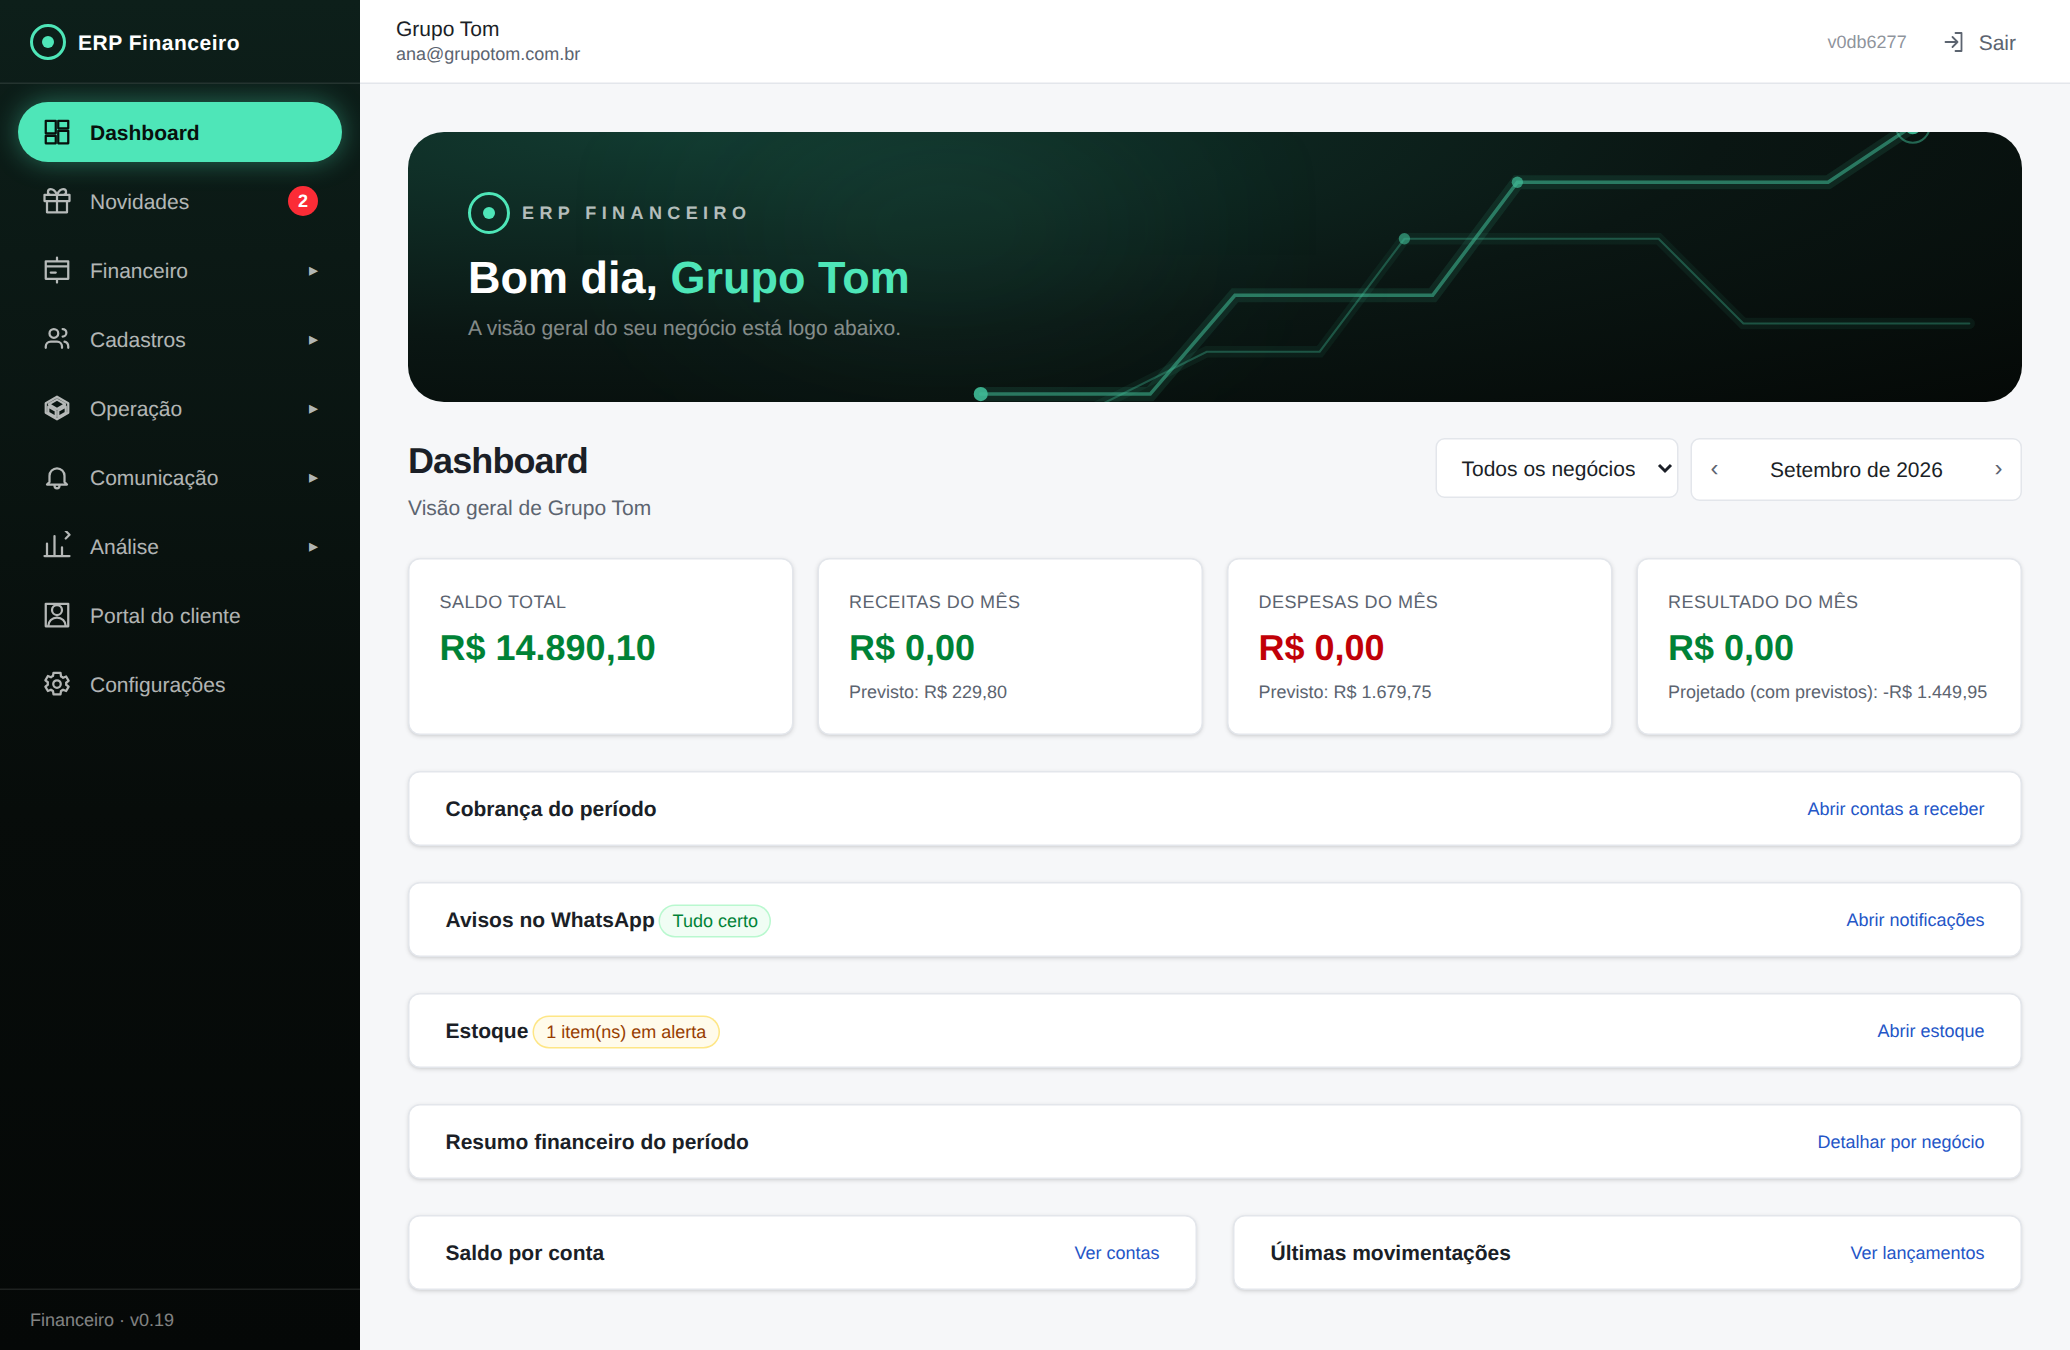
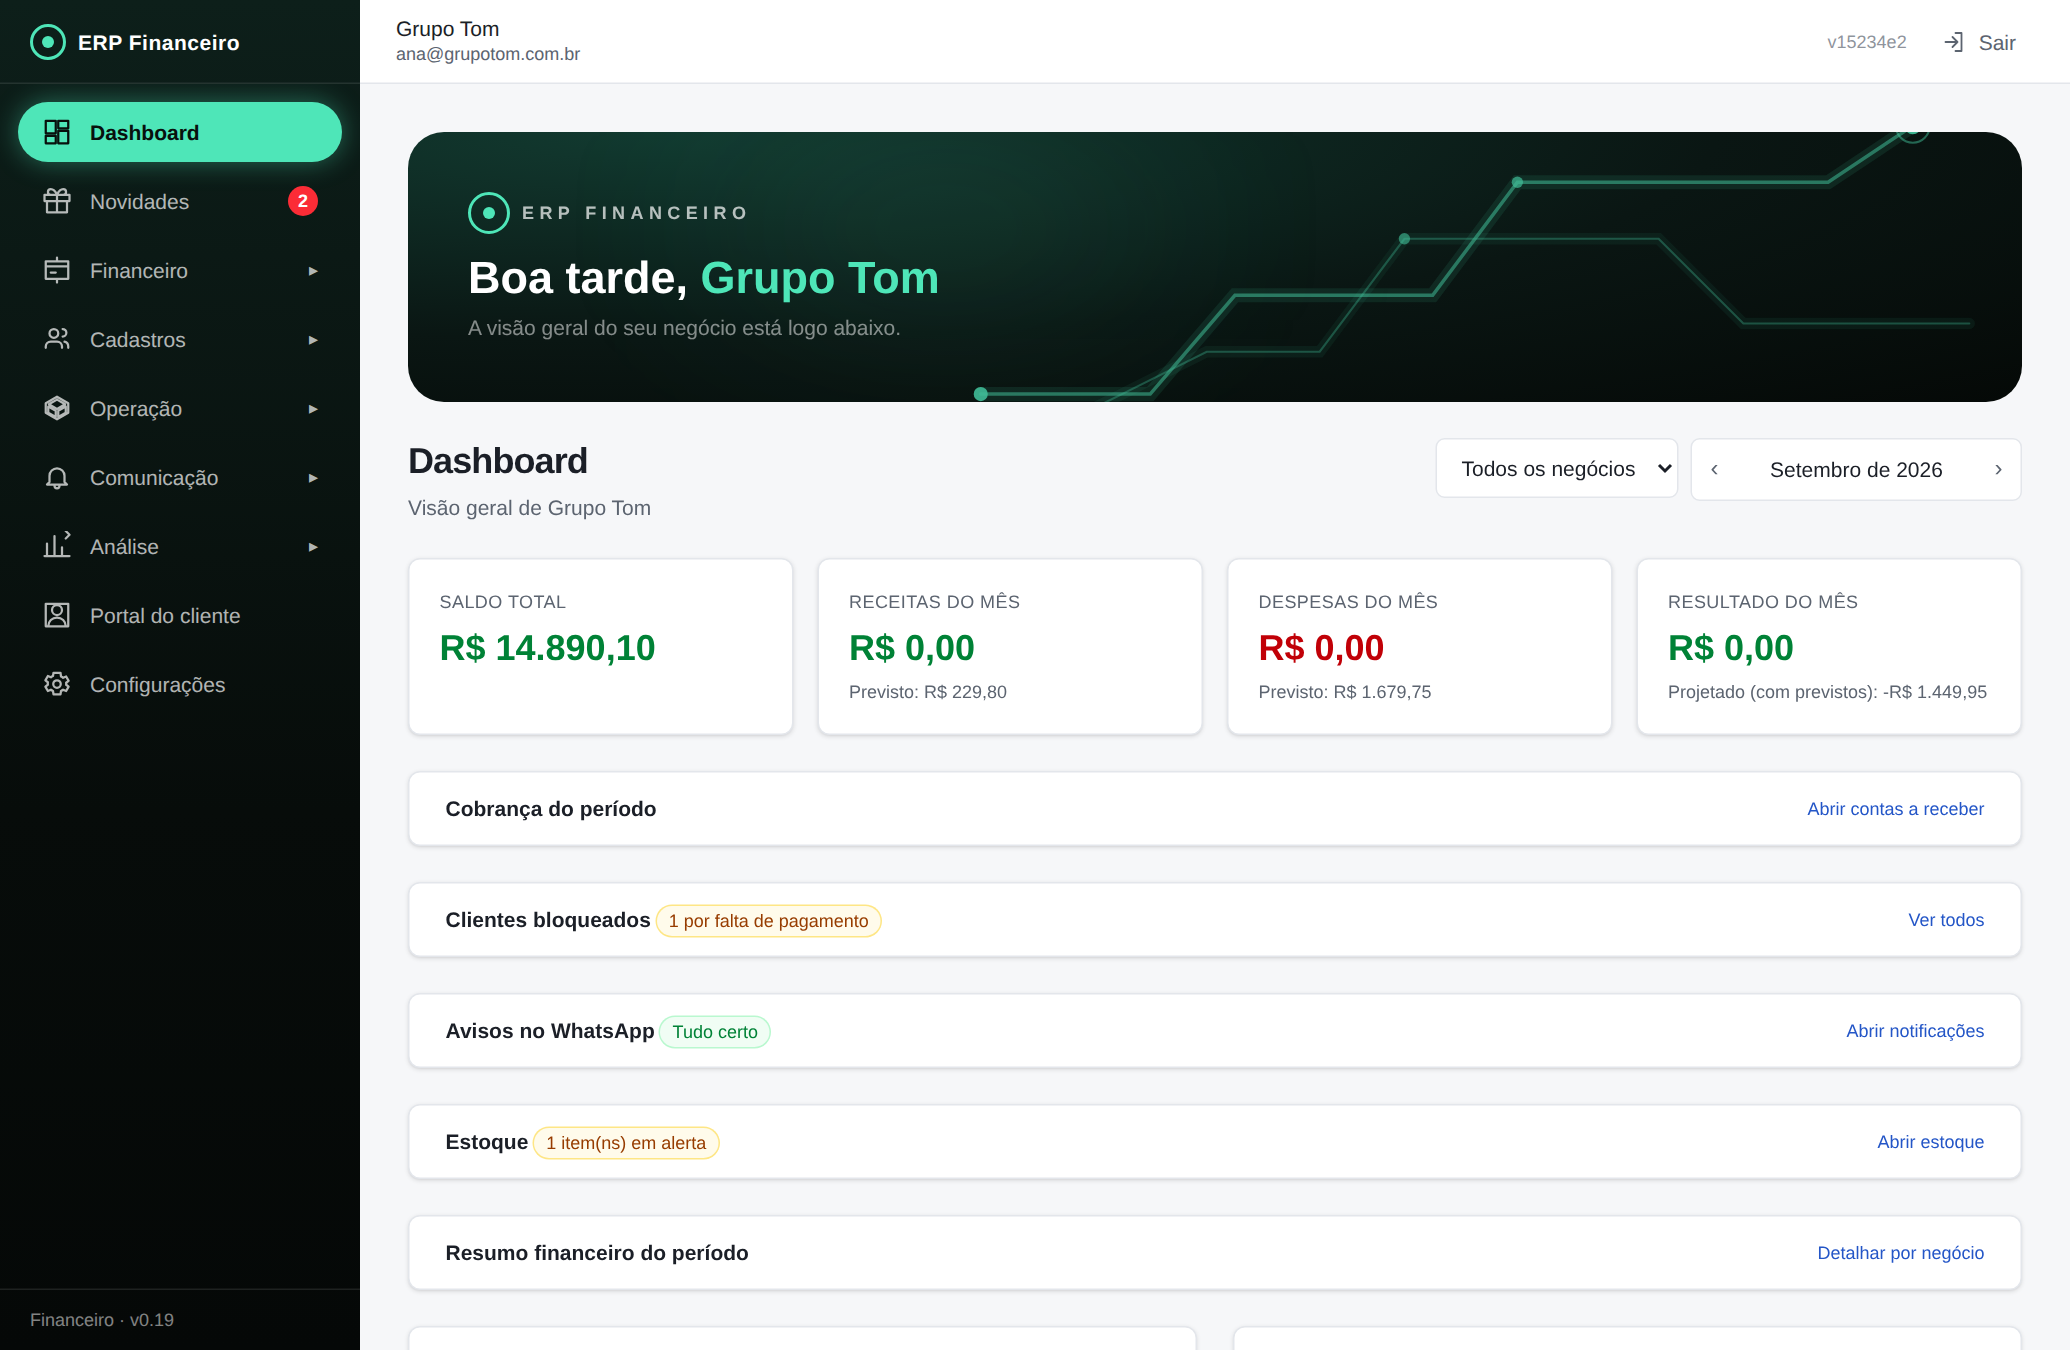
Ativar/desativar cliente na lista + dashboard mostra bloqueados por falta de pagamento
Pessoas: botão Ativar/Desativar direto na linha, sem abrir o cadastro
(useAlternarAtivoPessoa, update mínimo em pessoas.ativo).

Dashboard: cartão "Clientes bloqueados" com a contagem de contratos
suspensos por falta de pagamento; clicável, leva para Contratos já
filtrado em "Suspensos" (?status=suspenso, novo suporte a query param
na tela de Contratos).

Claude-Session: https://claude.ai/code/session_01LvKVVJXHUTGGnyzXpwt5fU

diff --git a/app/src/modules/pessoas/pages/PessoasPage.tsx b/app/src/modules/pessoas/pages/PessoasPage.tsx
@@ -8,7 +8,7 @@ import { Modal } from '../../../core/ui/Modal'
 import { Distintivo } from '../../../core/ui/Distintivo'
 import { mensagemDeErro } from '../../../core/erros/mensagemDeErro'
 import { useNegocios } from '../../negocios/api'
-import { useAtualizarPessoa, useCriarPessoa, useExcluirPessoa, usePessoas, useVinculos } from '../api'
+import { useAlternarAtivoPessoa, useAtualizarPessoa, useCriarPessoa, useExcluirPessoa, usePessoas, useVinculos } from '../api'
 import { FormularioPessoa } from '../components/FormularioPessoa'
 import { VinculosPessoa } from '../components/VinculosPessoa'
 import { formatarDocumento, formatarTelefone, PAPEIS_VINCULO, ROTULO_PAPEL, somenteDigitos, TIPOS_PESSOA, type DadosPessoa, type PapelVinculo, type TipoPessoa, type Vinculo } from '../tipos'
@@ -22,6 +22,7 @@ export function PessoasPage() {
   const criar = useCriarPessoa()
   const atualizar = useAtualizarPessoa()
   const excluir = useExcluirPessoa()
+  const alternarAtivo = useAlternarAtivoPessoa()
   const [busca, setBusca] = useState('')
   const [mostrarInativas, setMostrarInativas] = useState(false)
   const [filtroNegocio, setFiltroNegocio] = useState('') // '' = todos, 'sem' = sem vínculo, ou o id
@@ -74,6 +75,7 @@ export function PessoasPage() {
       <CabecalhoPagina titulo="Pessoas" descricao="Clientes, fornecedores e contatos, com vínculos por negócio" acoes={<Botao onClick={() => setEdicao({ modo: 'nova' })}>Nova pessoa</Botao>} />
       {carregando && <Carregando texto="Carregando pessoas…" />}
       {erroCarga && <Alerta tipo="erro" titulo="Não foi possível carregar">{mensagemDeErro(erroCarga)}</Alerta>}
+      {alternarAtivo.error != null && <Alerta tipo="erro">{mensagemDeErro(alternarAtivo.error)}</Alerta>}
       {pessoas.isSuccess && vinculos.isSuccess && negocios.isSuccess && (
         <Cartao className="p-0">
           <div className="flex flex-wrap items-center gap-3 border-b border-line px-6 py-3 text-sm">
@@ -131,7 +133,16 @@ export function PessoasPage() {
                           ))}
                         </div>
                       </td>
-                      <td className="px-6 py-3"><Distintivo tom={p.ativo ? 'ok' : 'neutro'}>{p.ativo ? 'Ativa' : 'Inativa'}</Distintivo></td>
+                      <td className="px-6 py-3">
+                        <div className="flex items-center gap-2">
+                          <Distintivo tom={p.ativo ? 'ok' : 'neutro'}>{p.ativo ? 'Ativa' : 'Inativa'}</Distintivo>
+                          <button type="button" className="text-xs font-medium text-brand-700 hover:underline disabled:opacity-50"
+                            disabled={alternarAtivo.isPending}
+                            onClick={(e) => { e.stopPropagation(); alternarAtivo.mutate({ id: p.id, ativo: !p.ativo }) }}>
+                            {p.ativo ? 'Desativar' : 'Ativar'}
+                          </button>
+                        </div>
+                      </td>
                     </tr>
                   ))}
                 </tbody>

diff --git a/app/src/modules/dashboard/components/AlertaBloqueados.tsx b/app/src/modules/dashboard/components/AlertaBloqueados.tsx
@@ -1,0 +1,43 @@
+import { Link } from 'react-router'
+import { CartaoRecolhivel } from '../../../core/ui/CartaoRecolhivel'
+import { Distintivo } from '../../../core/ui/Distintivo'
+import { codigoContrato } from '../../contratos/tipos'
+import { useContratos } from '../../contratos/api'
+import { usePessoas } from '../../pessoas/api'
+
+interface Props {
+  bate: (negocioId: string | null) => boolean
+  nomeNegocio: Map<string, string>
+}
+
+/** Cartão de clientes suspensos (bloqueados por falta de pagamento) no dashboard geral. Só aparece se houver algum. */
+export function AlertaBloqueados({ bate, nomeNegocio }: Props) {
+  const contratos = useContratos()
+  const pessoas = usePessoas()
+  const nomePessoa = new Map((pessoas.data ?? []).map((p) => [p.id, p.nome]))
+  const bloqueados = (contratos.data ?? [])
+    .filter((c) => c.status === 'suspenso' && c.tipo_financeiro === 'receita' && bate(c.negocio_id))
+  if (bloqueados.length === 0) return null
+  return (
+    <CartaoRecolhivel
+      id="clientes-bloqueados"
+      titulo={<h2 className="text-sm font-semibold">Clientes bloqueados <Distintivo tom="alerta">{`${bloqueados.length} por falta de pagamento`}</Distintivo></h2>}
+      acao={<Link to="/contratos?status=suspenso" className="shrink-0 text-xs font-medium text-brand-600 hover:underline">Ver todos</Link>}
+    >
+      <ul className="divide-y divide-line">
+        {bloqueados.slice(0, 6).map((c) => (
+          <li key={c.id} className="px-6 py-3 text-sm">
+            <Link to="/contratos?status=suspenso" className="flex items-center justify-between gap-3 hover:underline">
+              <span className="min-w-0 truncate">
+                <span className="font-medium">{nomePessoa.get(c.pessoa_id) ?? '—'}</span>
+                <span className="ml-2 text-xs text-ink-muted">{codigoContrato(c)} · {nomeNegocio.get(c.negocio_id) ?? ''}</span>
+              </span>
+              <Distintivo tom="alerta">Suspenso</Distintivo>
+            </Link>
+          </li>
+        ))}
+      </ul>
+      {bloqueados.length > 6 && <p className="px-6 py-2 text-xs text-ink-muted">+ {bloqueados.length - 6} cliente(s) — veja em Contratos.</p>}
+    </CartaoRecolhivel>
+  )
+}

diff --git a/app/src/modules/contratos/pages/ContratosPage.tsx b/app/src/modules/contratos/pages/ContratosPage.tsx
@@ -1,5 +1,5 @@
 import { useMemo, useState } from 'react'
-import { Link } from 'react-router'
+import { Link, useSearchParams } from 'react-router'
 import { CabecalhoPagina } from '../../../core/ui/CabecalhoPagina'
 import { Cartao } from '../../../core/ui/Cartao'
 import { Botao } from '../../../core/ui/Botao'
@@ -34,10 +34,14 @@ export function ContratosPage() {
   const centros = useCentrosCusto()
   const execucao = useUltimaExecucao()
   const gerar = useGerarFaturamento()
+  const [params] = useSearchParams()
+  const statusUrl = params.get('status')
   const [edicao, setEdicao] = useState<Edicao>(null)
   const [filtroNegocio, setFiltroNegocio] = useState('')
   const [busca, setBusca] = useState('')
-  const [filtroStatus, setFiltroStatus] = useState<StatusContrato | ''>('ativo')
+  const [filtroStatus, setFiltroStatus] = useState<StatusContrato | ''>(
+    statusUrl === 'ativo' || statusUrl === 'suspenso' || statusUrl === 'encerrado' ? statusUrl : 'ativo',
+  )
 
   const nome = useMemo(() => ({
     negocio: new Map((negocios.data ?? []).map((n) => [n.id, n.nome])),

diff --git a/app/src/modules/dashboard/pages/DashboardPage.tsx b/app/src/modules/dashboard/pages/DashboardPage.tsx
@@ -19,6 +19,7 @@ import { useLancamentos, useProjecaoContratos } from '../../lancamentos/api'
 import { useResultadoPorNegocio, useSaldoInicial, useSaudeNotificacoes, useUltimosLancamentos } from '../api'
 import { ResumoFinanceiro } from '../components/ResumoFinanceiro'
 import { AlertasEstoque } from '../components/AlertasEstoque'
+import { AlertaBloqueados } from '../components/AlertaBloqueados'
 import { SaudeAvisos } from '../components/SaudeAvisos'
 import { RelatorioCobranca } from '../components/RelatorioCobranca'
 import { HeroBoasVindas } from '../components/HeroBoasVindas'
@@ -110,6 +111,8 @@ export function DashboardPage() {
           </div>
 
           <RelatorioCobranca bate={bate} />
+
+          <AlertaBloqueados bate={bate} nomeNegocio={nomeNegocio} />
 
           <SaudeAvisos negocios={(negocios.data ?? []).filter((n) => bate(n.id))} saude={saudeNotificacoes.data} />
 

diff --git a/app/src/modules/pessoas/api.ts b/app/src/modules/pessoas/api.ts
@@ -64,6 +64,18 @@ export function useAtualizarPessoa() {
   })
 }
 
+export function useAlternarAtivoPessoa() {
+  const invalidar = useInvalidarPessoas()
+  return useMutation({
+    mutationFn: async ({ id, ativo }: { id: string; ativo: boolean }) => {
+      const { data, error } = await supabase.from('pessoas').update({ ativo }).eq('id', id).select().single()
+      if (error) throw error
+      return data as Pessoa
+    },
+    onSuccess: invalidar,
+  })
+}
+
 export function useExcluirPessoa() {
   const invalidar = useInvalidarPessoas()
   return useMutation({

diff --git a/docs/manual/README.md b/docs/manual/README.md
@@ -49,6 +49,7 @@ Cada grupo expande/recolhe com um clique; o estado é lembrado no navegador. O g
 
 - **Cartões do topo**: saldo total das contas, receitas/despesas do mês (realizado e previsto) e resultado. O "previsto" inclui a **projeção dos contratos** do mês exibido (mensalidades ainda não faturadas) — por isso um mês futuro já mostra a receita esperada.
 - **Cobrança do período**: três anéis — Confirmadas (recebidas), A receber (no prazo) e Inadimplentes (vencidas, acumulado) — com filtro Dia · Semana · Mês e atalho para Contas a receber.
+- **Clientes bloqueados**: quantos contratos estão **suspensos por falta de pagamento** agora, com os primeiros nomes na lista. Clique em qualquer linha ou em **Ver todos** para abrir Contratos já filtrado em "Suspensos". Só aparece quando há algum.
 - **Avisos no WhatsApp**: se a régua de cobrança de cada negócio está em dia, com erro ou sem configuração.
 - **Estoque**: itens zerados ou abaixo do mínimo; o link **Comprar** de cada item abre a Nova compra já com ele selecionado.
 - **Resumo financeiro do período**: saldo inicial, previsto × realizado e resultado.
@@ -178,7 +179,9 @@ Cadastro único de clientes e fornecedores (o técnico também vira uma pessoa, 
 
 Com a lista grande, três filtros ao lado da busca: **negócio** (com a opção *Sem vínculo*, útil para achar cadastro solto), **papel** (cliente, fornecedor, parceiro, outro) e **tipo** (física ou jurídica). Eles se combinam — ex.: fornecedores pessoa jurídica da Servnet. O contador ao lado mostra quantas pessoas sobraram.
 
-Ao editar uma pessoa há o botão **Excluir** (vermelho): só funciona para pessoa **sem histórico** — se ela tiver contrato, lançamento, OS ou comodato, o sistema barra e o caminho é **desativar** (desmarcar "Pessoa ativa"). A exclusão remove junto o acesso dela ao portal.
+Ao editar uma pessoa há o botão **Excluir** (vermelho): só funciona para pessoa **sem histórico** — se ela tiver contrato, lançamento, OS ou comodato, o sistema barra e o caminho é **desativar**. A exclusão remove junto o acesso dela ao portal.
+
+**Ativar/Desativar direto na lista:** cada linha tem o botão **Ativar**/**Desativar** ao lado do status — não precisa abrir o cadastro para isso. Pessoa inativa some da lista por padrão; marque **Mostrar inativas** para vê-la de novo.
 
 ## 9. Contratos
 
